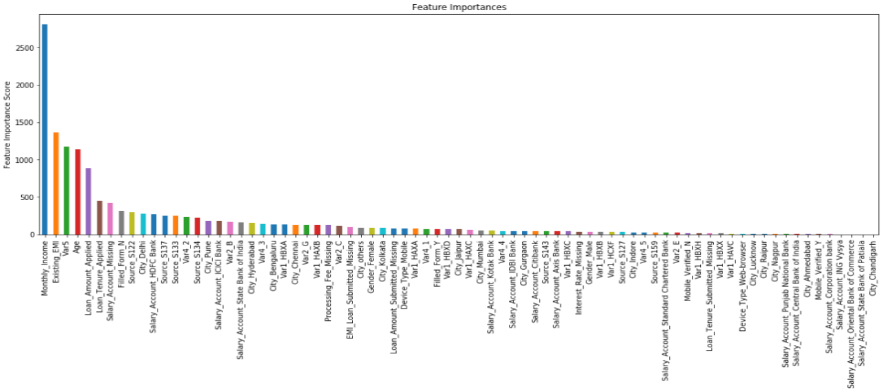
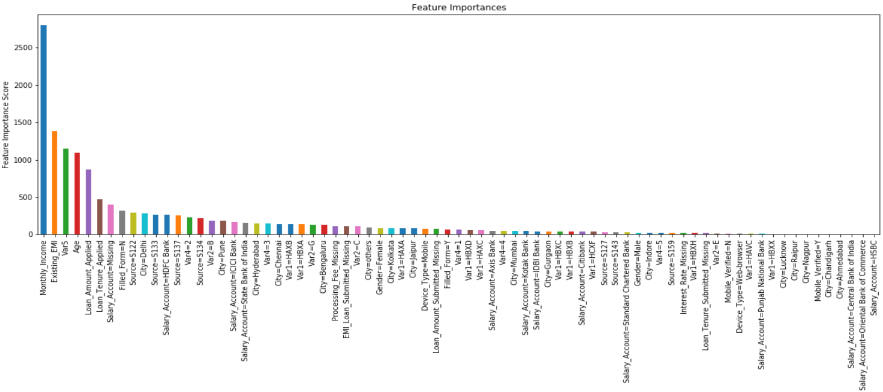
update

Changed region(s): [[0.0, 0.0306, 1.0, 1.0], [0.4587, 0.0, 0.581, 0.0306]]

diff --git a/index.html b/index.html
@@ -33,7 +33,7 @@ title: Sun Wenqi's Blog
 	<h3>Certifications</h3>
 	<ul>
 	   <li>
-			    Udacity Deep learning Nanodegree<a href="https://confirm.udacity.com/XPXKKGEK">(link)</a>
+			    Udacity Deep Learning Nanodegree<a href="https://confirm.udacity.com/XPXKKGEK">(link)</a>
 		 </li>
 	</ul>
 </div>

diff --git a/_posts/2018-09-21-xgboost_application_and_tuning.md b/_posts/2018-09-21-xgboost_application_and_tuning.md
@@ -95,6 +95,7 @@ train_3 = train_2.drop(['DOB','Loan_Amount_Submitted','Loan_Tenure_Submitted','E
    var_to_encode = list(set(category_cols)-set(dropped_columns))
    for col in var_to_encode:
        train_3[col] = le.fit_transform(train_3[col])
+   ### pd.get_dummies can also be used directly without LabelEncoder    
    train_3 = pd.get_dummies(train_3, columns=var_to_encode)
    ```
 
@@ -251,6 +252,7 @@ import xgboost as xgb
 import matplotlib.pyplot as plt
 from sklearn import metrics
 from sklearn.cross_validation import train_test_split
+from sklearn.feature_extraction import DictVectorizer
 from sklearn.preprocessing import Imputer, FunctionTransformer
 from sklearn_pandas import DataFrameMapper, CategoricalImputer
 from sklearn.pipeline import FeatureUnion, Pipeline
@@ -305,12 +307,12 @@ categorical_imputation_mapper = DataFrameMapper(category_imputer,input_df=True,d
 numeric_categorical_union = FeatureUnion([("num_mapper", numeric_imputation_mapper), \
                                           ("cat_mapper", categorical_imputation_mapper)])
 
-def one_hot(X):
+def dictify(X):
     col_1 = [feature for feature in numeric_cols if feature not in dropped_columns]
     col_2 = [feature for feature in category_cols if feature not in dropped_columns]
     X_numeric = pd.DataFrame(X[:,0:len(col_1)], columns=col_1, dtype='float')
-    X_category = pd.get_dummies(pd.DataFrame(X[:,len(col_1):], columns=col_2))
-    return pd.concat([X_numeric,X_category], axis=1)
+    X_category = pd.DataFrame(X[:,len(col_1):], columns=col_2, dtype='str')
+    return pd.concat([X_numeric,X_category], axis=1).to_dict("records")
 
 tuned_xgb = xgb.XGBClassifier(learning_rate=0.01, n_estimators=1480, max_depth=4, min_child_weight=6, gamma=0.2, \
                               reg_alpha=0.01, reg_lambda=1, subsample=0.7, colsample_bytree=0.75, \
@@ -318,16 +320,21 @@ tuned_xgb = xgb.XGBClassifier(learning_rate=0.01, n_estimators=1480, max_depth=4
 
 # Create full pipeline
 pipeline = Pipeline([("preprocessor", FunctionTransformer(preprocess, validate=False)), \
-                     ("featureunion", numeric_categorical_union), ("encoder", FunctionTransformer(one_hot, validate=False)), \
-                     ("classifier", tuned_xgb)])
-
+                     ("featureunion", numeric_categorical_union), ("dictifier", FunctionTransformer(dictify, validate=False)), \
+                     ("onehot", DictVectorizer(sparse=False)), ("classifier", tuned_xgb)])
 pipeline.fit(train_X, train_y)
-# Feature importance
+
+#Feature importance
 feat_imp = pd.Series(pipeline.named_steps['classifier'].get_booster().get_fscore()).sort_values(ascending=False)
-feat_imp.plot(kind='bar', title='Feature Importances', figsize=(20,6)) #下图
-plt.ylabel('Feature Importance Score')
-# prediction and accuracy
-# AUC Score (Test): 0.8571
+features = [pipeline.named_steps['onehot'].feature_names_[int(i[1:])] for i in feat_imp.index]
+fig = feat_imp.plot(kind='bar', title='Feature Importances', figsize=(20,6))
+fig.set_xticklabels(features)
+fig.set_ylabel('Feature Importance Score')
+
+# individual prediction
+print(pipeline.predict_proba(test.iloc[[1]][predictors_raw]))
+# test data predictions
+# AUC Score (Test): 0.8568
 predprob=pipeline.predict_proba(test[predictors_raw])[:,1]
 print("AUC Score (Test): %f" % metrics.roc_auc_score(test[target_raw], predprob))
 ```
